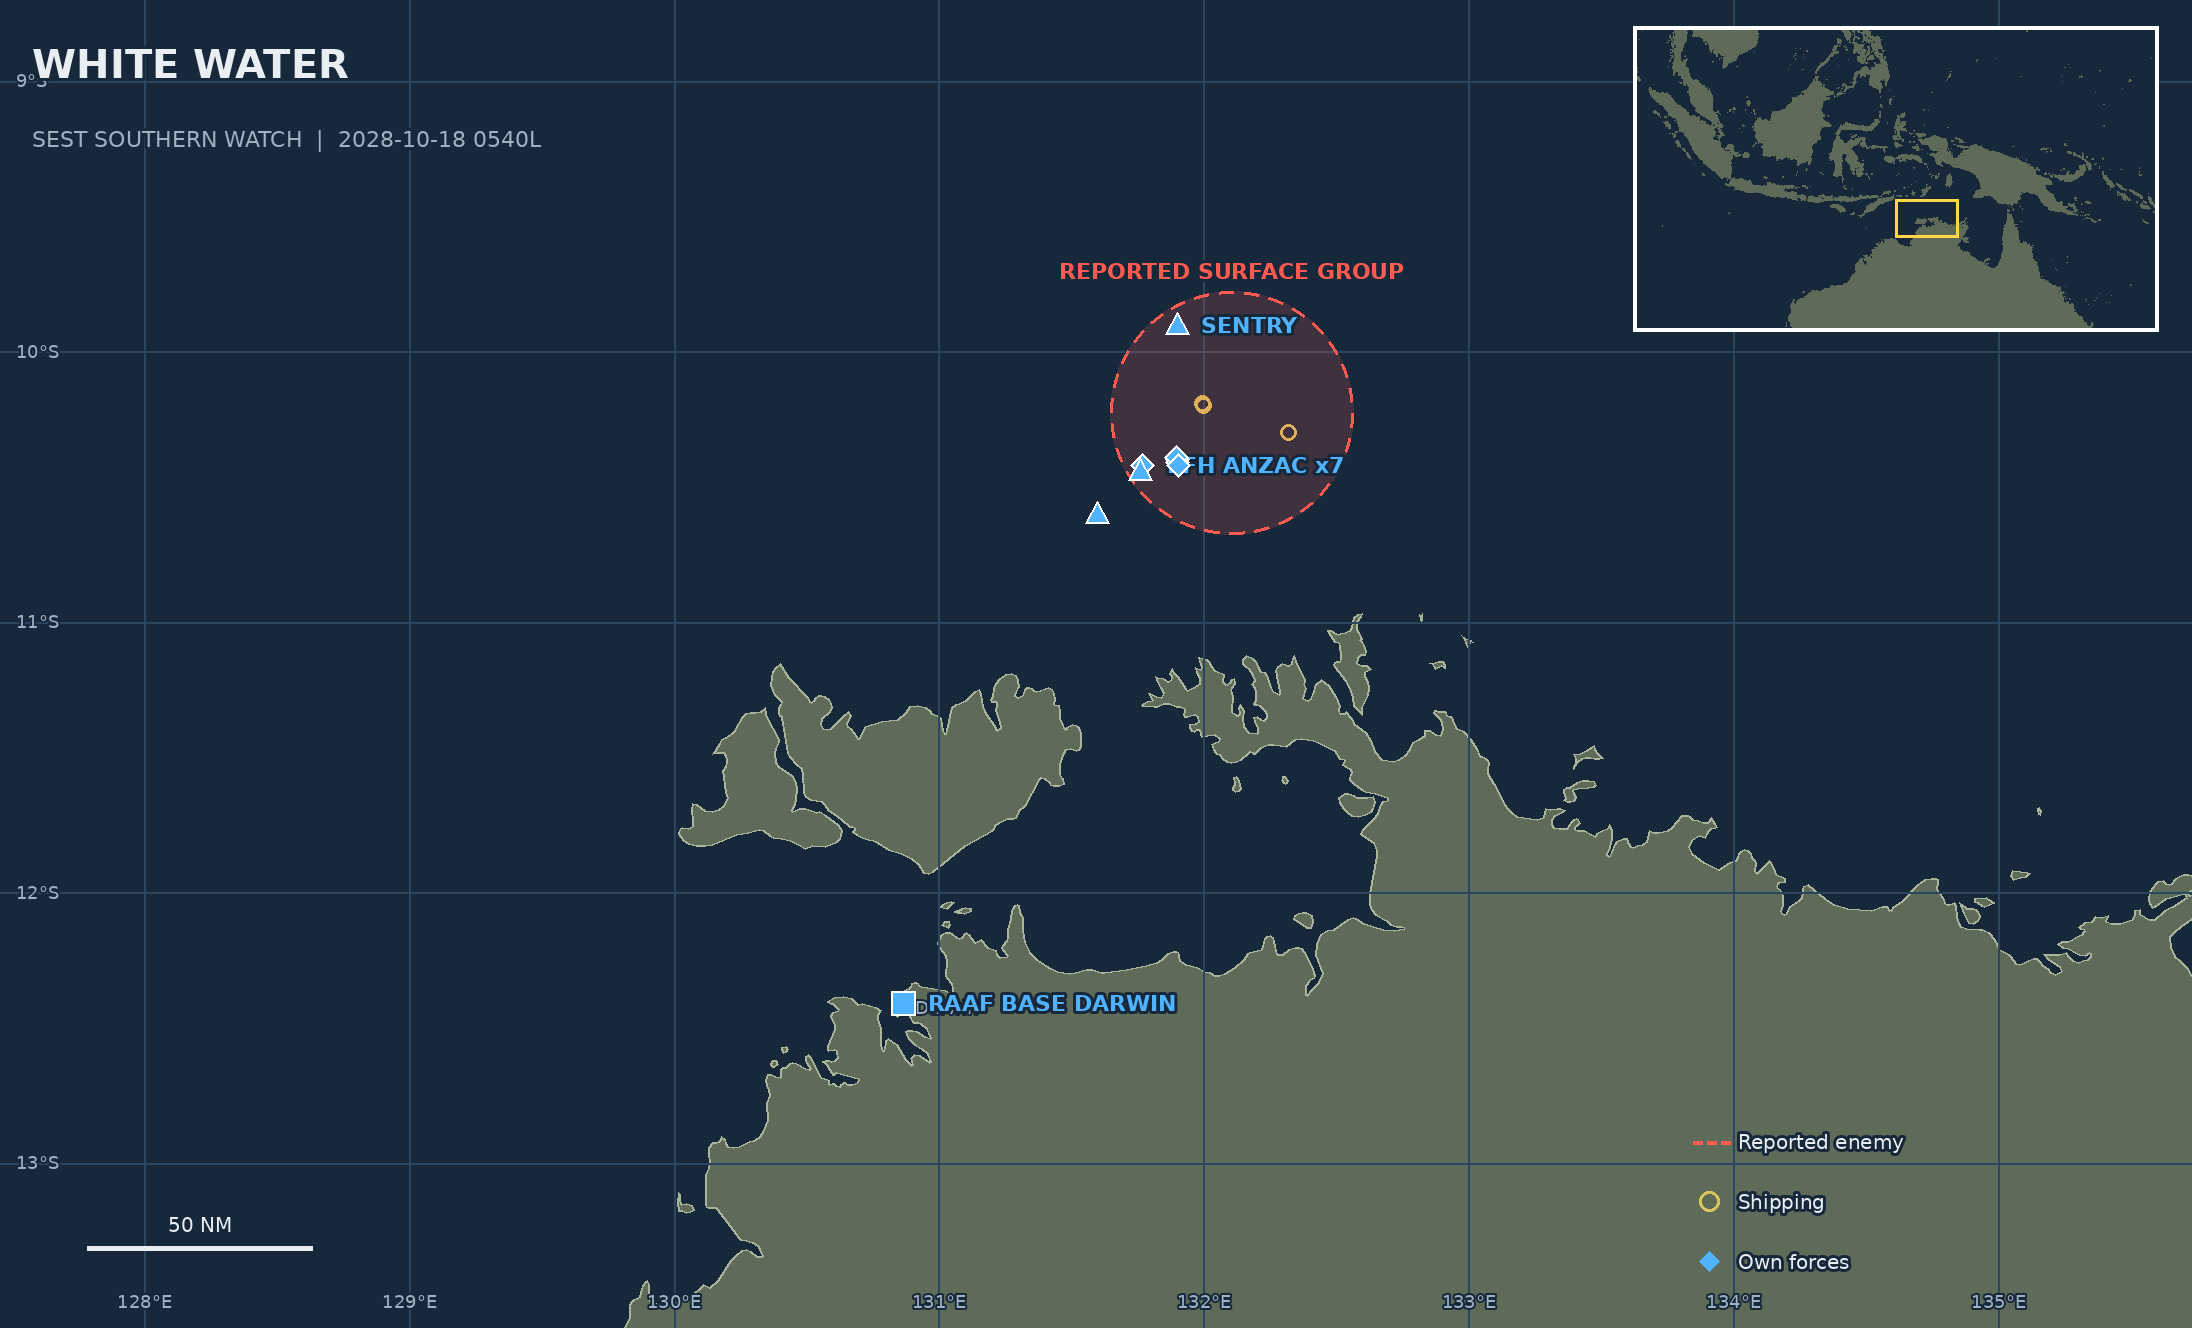
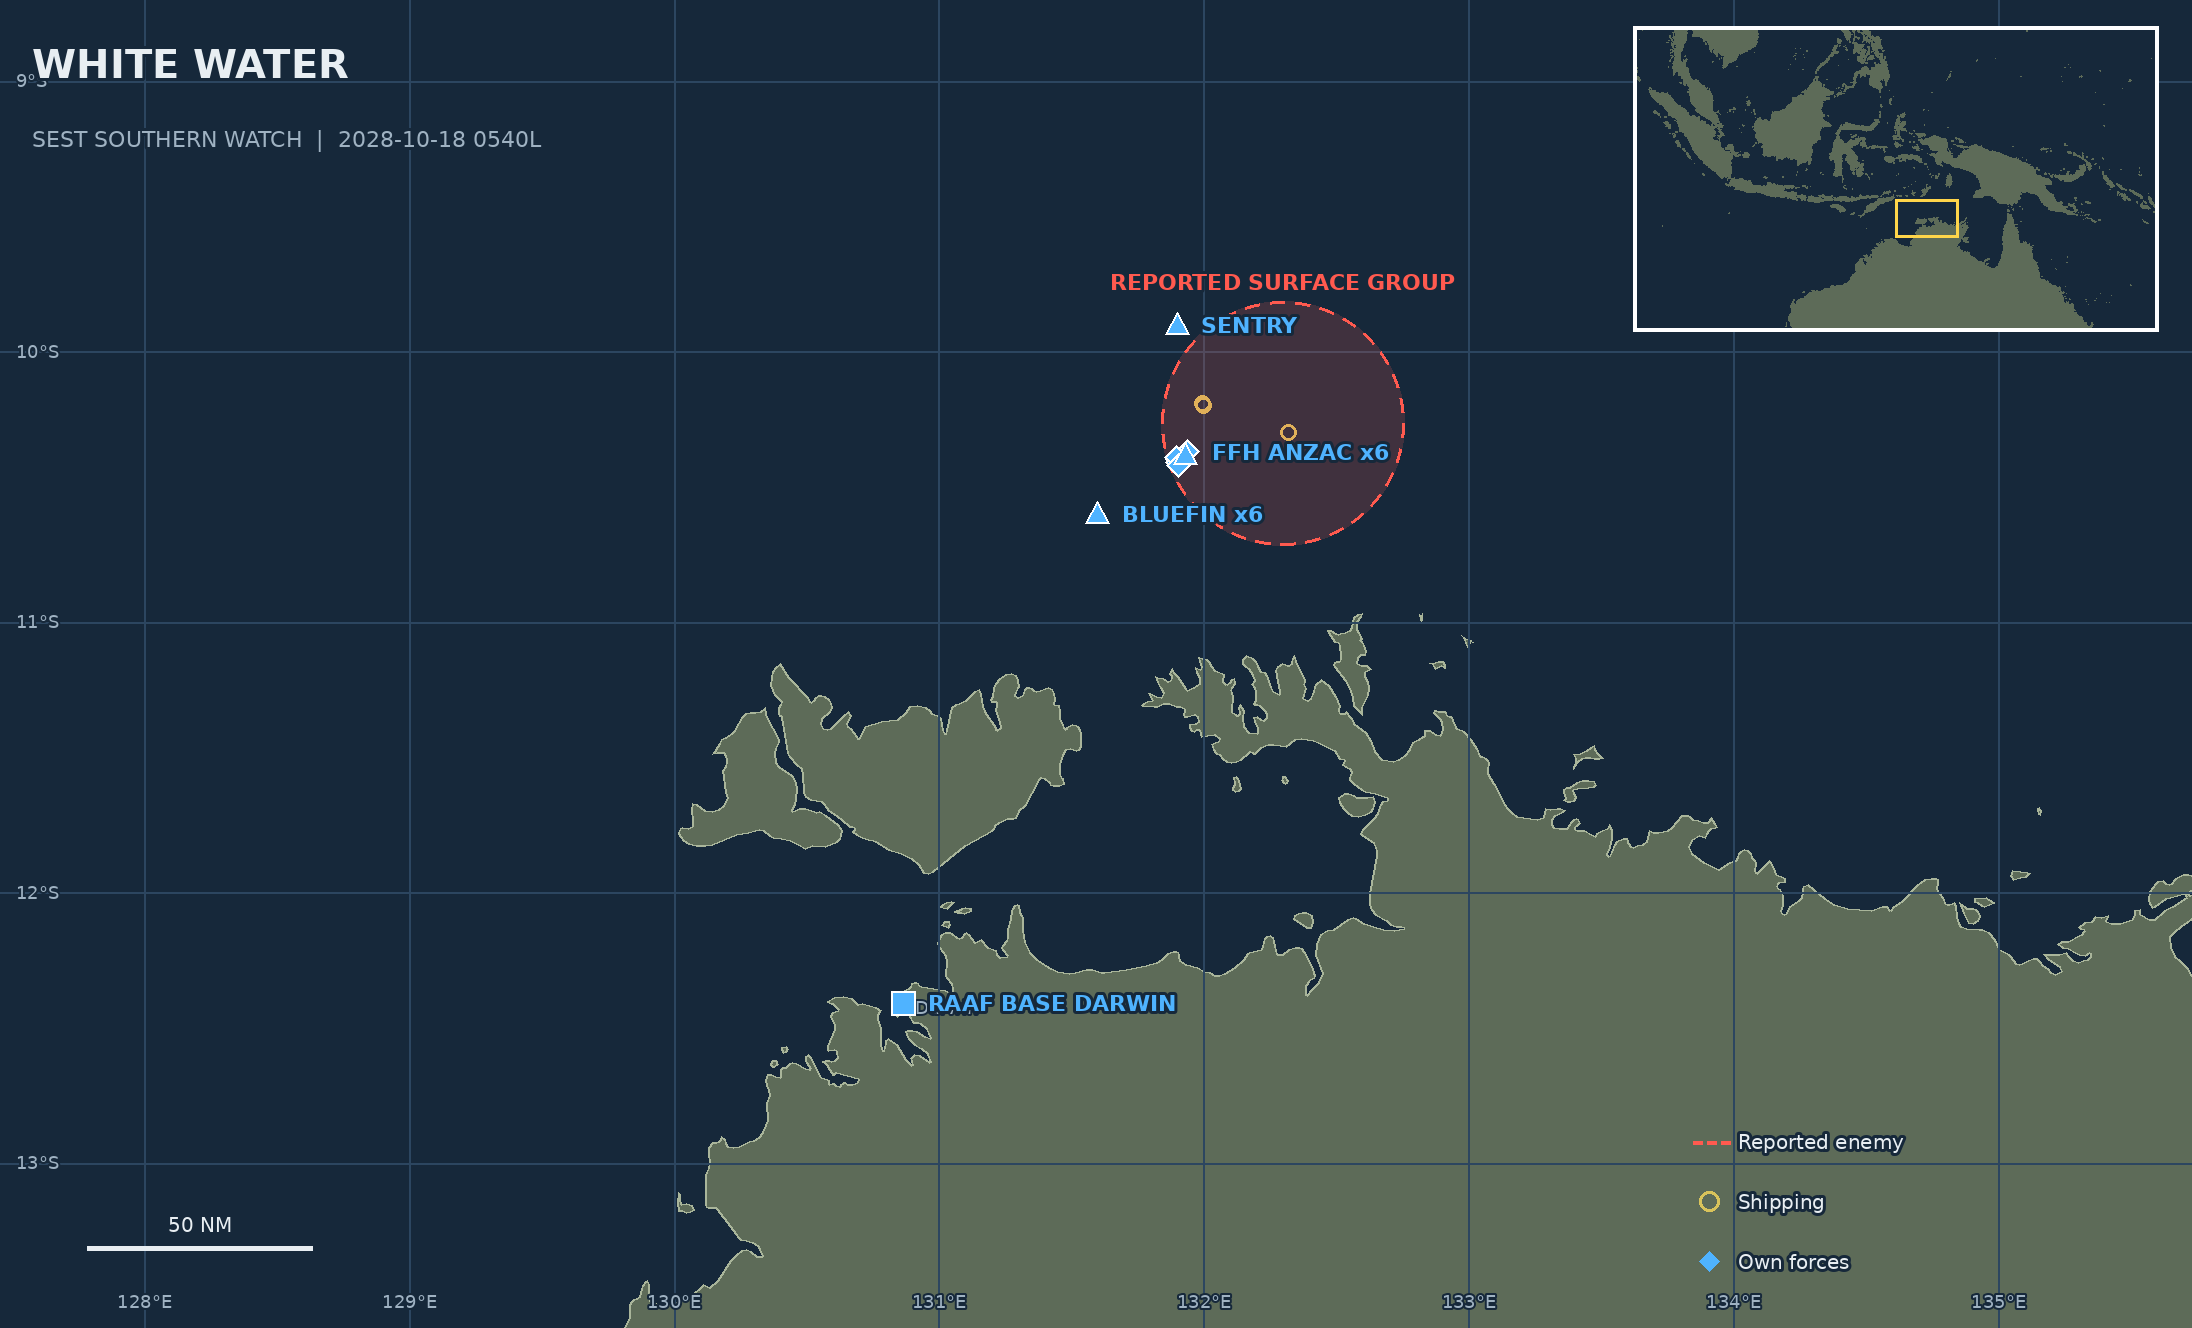
White Water and Steel Highway: open at ranges the escort can work with
White Water: Warramunga starts 3 NM ahead of the merchants on the threat
axis instead of 8 NM astern, and the Meridian Peykaap and its decoy start
25 NM out (22 from the frigate), beyond the boat's own radar, routed down
the convoy's track.

Steel Highway: the escort group starts 2 NM ahead of the merchants
instead of 17 NM away; Contact BRAVO starts 30 NM up the planned track at
the far edge of the approach box (it was 13 NM from the escorts and
astern of everyone), creeping in below the layer; the P-8 slot has its
own station over the sonobuoy field at 6,000 ft, 10 NM from the datum,
instead of 48 NM away at 30,000 ft with the Wedgetail. The briefing says
where the datum is.

Build notes section and test card rows H.19-H.20 added.

Changed region(s): [[0.4653, 0.1852, 0.6515, 0.4322]]

diff --git a/integration/campaign/campaign_data.py b/integration/campaign/campaign_data.py
@@ -445,15 +445,23 @@ MISSIONS.append(dict(
         # escort is 8 NM astern, the trawlers and the Meridian hull sit ON
         # the track to the handover box 12-16 NM ahead, and the airliner
         # crosses overhead - so the picture has pieces in it.
-        "warramunga": S(-10.42, 131.77, "Escort", heading=80),
+        # The first public report (October 2026) found that too close the
+        # other way: the armed boat 16 NM from the merchants, inside its own
+        # radar from the first second, with Warramunga 8 NM on the wrong side
+        # of them, so the opening was a race to get the ESSM between a
+        # sea-skimmer and the convoy. Now Warramunga is 3 NM ahead on the
+        # threat axis with the Seahawk beside her, and the Meridian pair is
+        # 25 NM out (22 from the frigate), past the trawlers and outside its
+        # 17 NM radar: the picture has time to be classified before it shoots.
+        "warramunga": S(-10.37, 131.94, "Escort", heading=70),
         "convoy": S(-10.4, 131.9, "Coral Pioneer group", heading=80),
         "neutrals": S(-10.20, 132.00, "Arafura traffic", heading=230),
-        "meridian": S(-10.23, 132.11, "Meridian escort", heading=230),
+        "meridian": S(-10.27, 132.30, "Meridian escort", heading=250),
         "air": S(-10.6, 131.6, "Southern Watch air", heading=70, alt=22000),
         # The brief says a Seahawk on the deck. It spawned 21 NM away at
         # 3,000 ft in the same Vic as a P-8 doing three times its speed at six
         # times its height. Beside the ship, low, on the ship's heading.
-        "flight": S(-10.44, 131.76, "Ship's flight", heading=80, alt=500),
+        "flight": S(-10.38, 131.93, "Ship's flight", heading=70, alt=500),
         "high": S(-9.9, 131.9, "Triton orbit", heading=90, alt=50000),
         # Pointed down the Darwin-Denpasar track (bearing 275 from here).
         "liner": S(-10.3, 132.32, "Denpasar service", heading=275, alt=34000),
@@ -486,13 +494,13 @@ MISSIONS.append(dict(
         # 500 NM toward Denpasar, further than 50 minutes at cruise.
         U("neutral", "civil-aircraft-airbus", "civ_a320", "liner",
           name="Denpasar 214", route=[(-9.57, 123.9, 34000)], telegraph=3),
-        # The escort CLOSES: to the convoy's starting position, then on toward
-        # the handover box - so it is the thing the player has to identify
-        # before it is inside gun range of a merchant, not a hull parked
-        # facing the wrong way 20 NM outside its own radar.
+        # The escort CLOSES: down the convoy's track toward where the
+        # merchants will be, then on toward the handover box - so it is the
+        # thing the player has to identify before it is inside gun range of a
+        # merchant, not a hull parked facing the wrong way.
         U("red", "red-storm-arsenal", "ir_ptg_peykaap_3", "meridian",
           name="Meridian Escort 7",
-          route=[(-10.4, 131.9, 0), (-10.15, 132.25, 0)]),
+          route=[(-10.34, 132.05, 0), (-10.15, 132.25, 0)]),
         U("red", "_vanilla", "wp_ms_mercur_decoy", "meridian",
           name="MV Meridian Assurance"),
         U("blue", "SEST_RAAF_Bases", "airbase_raaf_darwin", "home",
@@ -522,7 +530,9 @@ MISSIONS.append(dict(
         "patrol vessel EYRE and the replenishment ship SUPPLY, "
         "and a Wedgetail is up with a tanker behind it.\\n\\n"
         "Ninety minutes ago a Poseidon laid a sonobuoy field on a diesel-electric "
-        "contact across the planned track. The masters want to press on at "
+        "contact across the planned track, thirty miles ahead at the far edge "
+        "of the approach box. The field is still live, and a Poseidon "
+        "assigned to you starts over it. The masters want to press on at "
         "twelve knots. We want time to classify it. You will not get both.\\n\\n"
         "Three of four must reach the Moresby approach box, and two of the "
         "three are fixed: Kokoda Star, the medical and engineering ship, and "
@@ -566,16 +576,26 @@ MISSIONS.append(dict(
         # be here on the twenty-second and could not be 230 NM south-east of
         # Moresby. The box is the Gulf entrance where Moresby's pilots take
         # over, 150 NM short of the wharf.
-        "escort": S(-10.2, 144.3, "Escort group", heading=70),
+        # The first public report (October 2026): the escort group started
+        # 17 NM from the convoy it is "in company with", 13 NM from a 039C
+        # with its weapons free, and that boat was ASTERN of everybody - not
+        # across the planned track the briefing puts it on - while the P-8
+        # slot sat 48 NM away at 30,000 ft with the Wedgetail. Now the escorts
+        # sail 2 NM ahead of the merchants, the datum is 30 NM up the track
+        # just north of it, at the far edge of the approach box, the boat
+        # creeping in toward the track, and the Poseidon is on the sonobuoy
+        # field at 6,000 ft, 10 NM from the datum.
+        "escort": S(-10.37, 144.55, "Escort group", heading=70),
         "convoy": S(-10.4, 144.5, "Priority convoy", heading=70),
-        "traffic": S(-10.21, 144.33, "Gulf traffic", heading=250),
+        "traffic": S(-10.25, 144.75, "Gulf traffic", heading=250),
         "moresby": S(-9.5, 147.0, "Port Moresby", heading=0),
-        "sub": S(-10.3, 144.1, "Submarine datum", heading=90),
+        "sub": S(-10.15, 145.0, "Submarine datum", heading=230),
         "air": S(-10.0, 145.0, "Air support", heading=70, alt=30000),
+        "mpa": S(-10.22, 144.85, "Sonobuoy field", heading=70, alt=6000),
         # The ship's helicopter spawned at 30,000 ft 86 NM from the ship it
         # is homed on, in a mission the submarine can decide in twenty
         # minutes. Beside the escorts, low.
-        "flight": S(-10.22, 144.32, "Ship's flight", heading=70, alt=500),
+        "flight": S(-10.36, 144.54, "Ship's flight", heading=70, alt=500),
     },
     units=[
         # The anchor: at launch this is the player's first ship (the guide -
@@ -616,7 +636,8 @@ MISSIONS.append(dict(
         U("blue", "buildings-targets-missions", "Liberty", "moresby",
           name="Moresby wharf", weapons="Hold"),
         U("red", "plan-submarines", "plan_ss_type_039c", "sub",
-          name="Contact BRAVO"),
+          name="Contact BRAVO", depth="belowlayer",
+          route=[(-10.24, 144.85, "belowlayer")], telegraph=1),
         # Air-tasking placeholder: no name, no objective, no line in the
         # briefing. Its only job is to be a cockpit a purchased aircraft can
         # take, the way every slot-tagged section in the shipped campaign is.
@@ -625,7 +646,8 @@ MISSIONS.append(dict(
         # selling here. The two F-35A cockpits and their CAP row are gone -
         # this mission declares no air threat and sells no fighter.
         U("blue", "us-navy-2027", "usn_mh-60r", "flight"),
-        U("blue", "p-8-poseidon", "usn_p8", "air", squadron="Squadron3"),
+        U("blue", "p-8-poseidon", "usn_p8", "mpa", squadron="Squadron3",
+          alt=6000),
     ],
 ))
 

diff --git a/docs/campaigns/southern-watch/test-card.md b/docs/campaigns/southern-watch/test-card.md
@@ -373,3 +373,5 @@ will change the model rather than patch the symptom.
 | H.16 | After H.15, the Mod Manager, and the mod list | The SEST pack first and ticked, the 148 in LOAD-ORDER.txt order, your other mods at the bottom as they were; nothing in the list or the log mentions the .cmd or the .ps1 | A "dependency issues" prompt on the pack = Required Workshop IDs got set on the Steam item: clear them. A mod the game lists that SETUP dropped = it was not under workshop/content: say which |
 | H.17 | Any mission: let the clock reach the planned minute (SW04 The Quiet Passenger: 45:00), then keep playing | At 45:00 a yellow "Behind schedule" message naming the 45-minute window and about 23 minutes more; nothing else changes; at 68:00 (1.5x) the red "Operational window closed" failure as before | No message at the planned minute = BehindScheduleMessage is not read from [Language_en]: bring back the file's Trigger list. Failure at 45:00 = an old build |
 | H.18 | SR04 Macquarie Passage, sea state 5: Supply and Coral Pioneer at flank north from the 30-minute check | Both inside the withdrawal line (16 NM north of Buckles Bay, radius 12) before 75:00, the planned window; note Supply's speed over ground | Not inside by 75:00 = the SEA_SPEED row for state 5 (0.45) is still optimistic: bring back her speed and the minute she crossed, and the table moves |
+| H.19 | SW01 White Water, first five minutes: note where Warramunga, the merchants and the two Meridian contacts start, and when the first missile alert comes | Warramunga about 3 NM ahead of the merchants on the threat side, the Meridian pair about 25 NM out to the east-north-east, beyond its own radar; no launch before you have had time to classify it | A launch inside the first few minutes, or Warramunga still astern of the merchants: bring back the minute of the first launch and the range to the shooter |
+| H.20 | SW02 Steel Highway, opening: buy a P-8 and note where it spawns; then prosecute Contact BRAVO | The escorts 2 NM ahead of the merchants; the P-8 at 6,000 ft about 10 NM from the datum, 30 NM up the track; no torpedo or YJ-18 in the water in the first ten minutes | The P-8 far from the datum or high, or the boat firing before the screen is formed: bring back its spawn, the minute of the first launch and the range |

diff --git a/docs/campaigns/southern-watch/build-notes.md b/docs/campaigns/southern-watch/build-notes.md
@@ -2312,3 +2312,34 @@ python3 tools/build_all.py --from-scratch                               # the re
 `check_campaign_coverage.py` deliberately re-derives everything from the built
 mission files rather than from `campaign_data.py`, so it still tells the truth
 after a mod update that the builder's roster has not caught up with.
+
+## Opening ranges in White Water and Steel Highway (October 2026)
+
+The first public report said both openings start too close: the AI sees the
+convoy at once, the escort has to race to get its SAMs between a sea-skimmer
+and the merchants, Steel Highway's submarine is right there, and a bought
+ASW aircraft spawns far away. The built files agreed.
+
+**White Water.** Warramunga started 8 NM astern of the merchants, with the
+Peykaap-III (Nasir, 49 NM) and its decoy 16 NM ahead of them - inside the
+boat's own 17 NM radar from the first second, with the merchants between it
+and the only SAM. Now Warramunga starts 3 NM ahead on the threat axis with
+her Seahawk beside her, and the Meridian pair starts 25 NM from the merchants
+(22 from the frigate), east-north-east, beyond the trawlers and its own radar,
+routed down the convoy's track. The handover box is unchanged.
+
+**Steel Highway.** The escort group started 17 NM from the convoy the
+briefing says it is in company with, and 13 NM from a 039C (YJ-18, Yu-6)
+with weapons free - astern of everybody, not across the planned track - and
+the P-8 slot shared the Wedgetail's station, 48 NM from the boat at
+30,000 ft. Now the escorts start 2 NM ahead of the merchants, the boat starts
+30 NM up the track just north of it, at the far edge of the approach box,
+creeping in toward the track below the layer, and the P-8 slot has its own
+station over the sonobuoy field at 6,000 ft, 10 NM from the datum. The
+briefing says where the datum is and that an assigned Poseidon starts over
+it. Gulf traffic moves up to 15 NM ahead of the merchants, where it is part
+of the picture.
+
+Every gate passes. What this does not establish is how the AI behaves at
+the new ranges; test card rows H.19 and H.20 ask for it.
+
